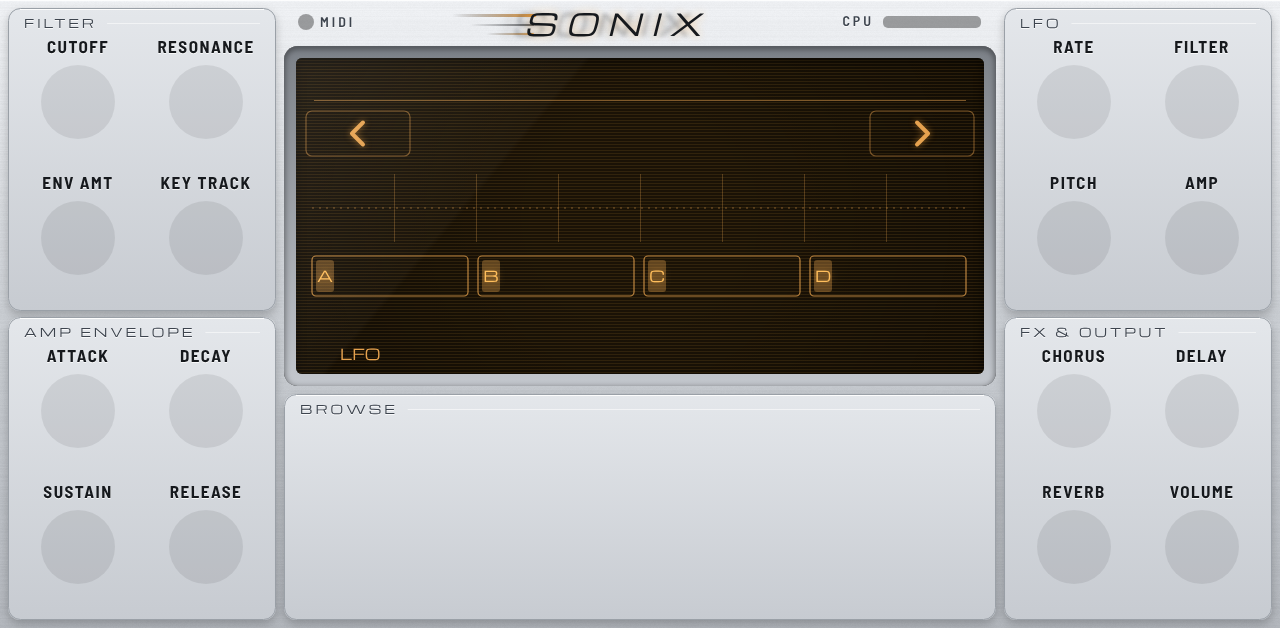
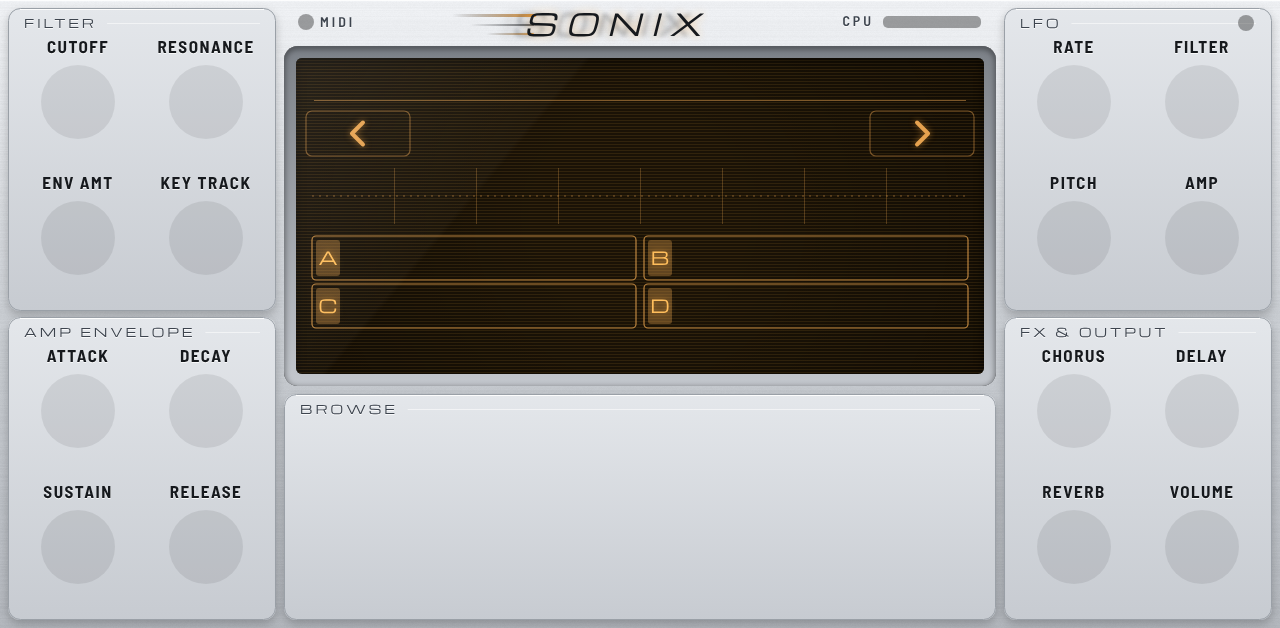
v0.3.2: browsing by data wheel / Q-Link 16 one preset per step, arrows stay in the category, every button tap counts, strong row highlight, list rows in each colorway's LCD colour, 2x2 layer cells with full names
Claude-Session: https://claude.ai/code/session_01PybJ2syxRUbVjbLiUhaYAG

Changed region(s): [[0.2188, 0.3631, 0.7812, 0.5748], [0.9688, 0.0303, 1.0, 0.0605]]

diff --git a/tools/make_skin.py b/tools/make_skin.py
@@ -47,7 +47,7 @@ LAYERS = "abcd"
 BTN_W, BTN_H, BTN_GAP = 108, 47, 8                          # a button picture is BTN_W x (BTN_H + 4): the drop shadow
 KNOB_R = 36
 LABEL_PX, VALUE_PX, BUTTON_PX, TITLE_PX = 17, 21, 16, 12
-LCD_PX = dict(top=22, name=42, cell=20, line=22, lcat=22, lname=27, list=23)
+LCD_PX = dict(top=22, name=42, cell=24, line=22, lcat=22, lname=27, list=26)
 
 # ---- the chassis shared by MAIN and SETTINGS: a 2 x 2 knob panel in each corner, the centre column between
 W, H = 1280, 628
@@ -74,7 +74,7 @@ SETTINGS_SECTIONS = [
     (RX, BOT_Y, "REVERB", [("rev_size", "SIZE"), ("rev_damp", "DAMPING"), ("rev_predelay", "PRE-DELAY"), ("rev_width", "WIDTH")]),
 ]
 # MAIN's Q-Links: the four sections' knobs, but the 16th (VOLUME, which MPC's track has too) browses presets
-MAIN_QLINKS = [k for _, _, _, ks in MAIN_SECTIONS for k, _ in ks][:15] + ["preset"]
+MAIN_QLINKS = [k for _, _, _, ks in MAIN_SECTIONS for k, _ in ks][:15] + ["browse"]
 LAYER_KNOBS = [("level", "LEVEL"), ("pan", "PAN"), ("octave", "OCTAVE"), ("fine", "FINE")]
 SYSTEM_ROWS = [  # (key, label, caption, options)
     ("theme", "THEME", "faceplate colours", ["MIDNIGHT", "PLATINUM", "STUDIO"]),
@@ -93,13 +93,13 @@ LCD_RULE_Y = SY + 42
 LCD_PREV = (SX + 8, SY + 50, BTN_W, BTN_H + 4)
 LCD_NEXT = (SX + SW - 8 - BTN_W, SY + 50, BTN_W, BTN_H + 4)
 LCD_NAME = (SX + 8 + BTN_W + 8, SY + 50, SW - 2 * (8 + BTN_W + 8), BTN_H + 4)
-LCD_WAVE = (SX + 16, SY + 112, SW - 32, 76)                  # two meters side by side (MPC's strip width limit)
+LCD_WAVE = (SX + 16, SY + 106, SW - 32, 64)                  # two meters side by side (MPC's strip width limit)
 WAVE_FRAMES = 33                                             # 0 idle, then 4 levels x 8 phases
-CELL_Y, CELL_H, CELL_W, CELL_GAP = SY + 198, 40, 156, 10
+CELL_Y, CELL_H, CELL_W, CELL_GAP = SY + 178, 44, (SW - 32 - 8) // 2, 8   # the four layers, 2 x 2
 LIST_BOX = (SX + 16, SY + 104, SW - 32, 206)                 # the preset list (2 x 6 rows) in place of the waveform view
 LIST_COLS, LIST_ROWS, LIST_TH, LIST_GAP = 2, 6, 31, 4
-LCD_LINE = (SX + 18, SY + 246, SW - 36, 32)
-LFO_LED = (SX + 30, SY + 296)                                # an LED on the LCD's foot, lit while the LFO runs
+LCD_LINE = (SX + 18, SY + 276, SW - 36, 32)
+LFO_LED = (RX + SIDE_W - 26, SIDE_Y + 15)                    # an LED by the LFO panel's title, lit while the LFO runs
 BROWSE = (CX0, 394, CW, 226)
 GRID_X = CX0 + (CW - (6 * BTN_W + 5 * BTN_GAP)) // 2         # 296
 GRID_Y = BROWSE[1] + 32
@@ -125,6 +125,7 @@ LOGO_X = 640 - 116                                           # the header sits o
 HEADER_LED = (CX0 + 22, 22)                                  # MIDI LED centre
 CPU_BAR = (CX1 - 112, 17, 96, 10)
 
+LCD_BG = {"midnight": "06121f", "platinum": "1a1206", "studio": "a8bc86"}   # each colorway's LCD glass
 LCD_INK = {"midnight": ("9fe4ff", "7cc2e6"), "platinum": ("ffbe5c", "e6a24f"), "studio": ("16200c", "3a4826")}
 KNOB_INK = {"midnight": ("e4e7ec", "c3cad5"), "platinum": ("1b1e22", "343a42"), "studio": ("121417", "24282d")}
 
@@ -146,15 +147,16 @@ def page_main():
            dict(t="readout", key="lcd_ref", box=LCD_REF, size=LCD_PX["top"], ink="dim", align="right", weight="semibold"),
            dict(t="rule", x=SX + 18, y=LCD_RULE_Y, w=SW - 36),
            dict(t="lcdarrow", key="prev", box=LCD_PREV, dir=-1), dict(t="lcdarrow", key="next", box=LCD_NEXT, dir=1),
-           dict(t="presetname", key="preset", box=LCD_NAME, size=LCD_PX["name"]),
+           dict(t="presetname", key="browse", box=LCD_NAME, size=LCD_PX["name"]),
            dict(t="wave", box=LCD_WAVE, view=0)]
     for i, l in enumerate(LAYERS):
-        x = SX + 16 + i * (CELL_W + CELL_GAP)
-        it.append(dict(t="cell", x=x, y=CELL_Y, w=CELL_W, h=CELL_H, letter=l.upper(), view=0))
-        it.append(dict(t="readout", key="lcd_" + l, box=(x + 28, CELL_Y, CELL_W - 32, CELL_H), size=LCD_PX["cell"],
+        x = SX + 16 + (i % 2) * (CELL_W + CELL_GAP)
+        y = CELL_Y + (i // 2) * (CELL_H + 4)
+        it.append(dict(t="cell", x=x, y=y, w=CELL_W, h=CELL_H, letter=l.upper(), view=0))
+        it.append(dict(t="readout", key="lcd_" + l, box=(x + 36, y, CELL_W - 44, CELL_H), size=LCD_PX["cell"],
                        ink="ink", align="left", weight="semibold", view=0))
     it += [dict(t="readout", key="lcd_line", box=LCD_LINE, size=LCD_PX["line"], ink="dim", align="center", weight="semibold", view=0),
-           dict(t="lcdled", key="lfo_led", cx=LFO_LED[0], cy=LFO_LED[1], label="LFO", view=0),
+           dict(t="led", key="lfo_led", cx=LFO_LED[0], cy=LFO_LED[1]),
            dict(t="list", key="row", box=LIST_BOX, view=1),
            dict(t="panel", x=BROWSE[0], y=BROWSE[1], w=BROWSE[2], h=BROWSE[3], title="BROWSE"),
            dict(t="catgrid", x=GRID_X, y=GRID_Y)]
@@ -212,7 +214,7 @@ MOCK = {
                    lfo_rate=(0.35, "3.1 HZ"), lfo_filter=(0.0, "0 %"), lfo_pitch=(0.12, "12 CT"), lfo_amp=(0.0, "0 %"),
                    chorus=(0.3, "30 %"), delay=(0.18, "18 %"), reverb=(0.42, "42 %"), volume=(0.8, "-1.9 DB")),
         text=dict(lcd_top="PIANO  ·  002 / 128  ·  ★", lcd_ref="A4  440 HZ", preset="Velvet Grand",
-                  lcd_a="GRAND PIANO", lcd_b="WARM PAD", lcd_c="STRING ENS", lcd_d="—",
+                  lcd_a="GRAND PIANO", lcd_b="WARM PAD", lcd_c="STRING ENSEMBLE", lcd_d="—",
                   lcd_line="Soft grand over a slow pad and wide strings"),
         on=dict(layer_a=1, layer_b=1, layer_c=1, layer_d=0, fav=1, fav_only=0, lfo_led=1),
         category=0, wave=(2, 3)),
@@ -267,7 +269,7 @@ const T = {
     panel1:'#262a32', panel2:'#1a1d22', panelEdge:'#0b0c0f', bevelHi:'rgba(255,255,255,0.09)', drop:'rgba(0,0,0,0.55)',
     text:'#e4e7ec', muted:'#a3acba', engrave:[0,-1,'rgba(0,0,0,0.75)'], logo:'#eef1f5', logoGlow:'rgba(76,195,255,0.6)',
     led:'#4cc3ff', ledOff:'#1d2732', ledGlow:'rgba(76,195,255,0.7)',
-    bezel1:'#0b0c0f', bezel2:'#22252c', lcd:'#06121f', lcdText:'#9fe4ff', lcdDim:'#7cc2e6', lcdFaint:'rgba(143,220,255,0.10)', lcdGlow:'rgba(120,210,255,0.5)',
+    bezel1:'#0b0c0f', bezel2:'#22252c', lcd:'#06121f', lcdText:'#9fe4ff', lcdDim:'#7cc2e6', rowFill:0.26, lcdFaint:'rgba(143,220,255,0.10)', lcdGlow:'rgba(120,210,255,0.5)',
     knobHi:'#5a616d', knobLo:'#0a0b0d', knobEdge:'#050607', capHi:'#454a54', capLo:'#16181c', ridge:'rgba(255,255,255,0.10)', knobLine:'#eef1f5',
     btnTop:'#3b404a', btnBot:'#22252b', btnOnTop:'#16293c', btnOnBot:'#0e1b28', btnEdge:'#0b0c0f', btnShadow:'#07080a', btnText:'#d9dde4',
     btnEngrave:[0,-1,'rgba(0,0,0,0.75)'], screw:['#70767f','#2a2d33'], well:'rgba(0,0,0,0.16)', name:'MIDNIGHT' },
@@ -275,7 +277,7 @@ const T = {
     panel1:'#e4e7eb', panel2:'#c7cbd1', panelEdge:'#9aa0a7', bevelHi:'rgba(255,255,255,0.9)', drop:'rgba(0,0,0,0.22)',
     text:'#16191d', muted:'#3d444e', engrave:[0,1,'rgba(255,255,255,0.8)'], logo:'#16191d', logoGlow:'rgba(255,154,31,0.4)',
     led:'#ff9a1f', ledOff:'#9f9b93', ledGlow:'rgba(255,154,31,0.7)',
-    bezel1:'#7c8188', bezel2:'#c3c7cd', lcd:'#1a1206', lcdText:'#ffbe5c', lcdDim:'#e6a24f', lcdFaint:'rgba(255,182,72,0.10)', lcdGlow:'rgba(255,170,60,0.5)',
+    bezel1:'#7c8188', bezel2:'#c3c7cd', lcd:'#1a1206', lcdText:'#ffbe5c', lcdDim:'#e6a24f', rowFill:0.26, lcdFaint:'rgba(255,182,72,0.10)', lcdGlow:'rgba(255,170,60,0.5)',
     knobHi:'#7c828c', knobLo:'#121417', knobEdge:'#0c0d0f', capHi:'#686e77', capLo:'#1e2125', ridge:'rgba(255,255,255,0.13)', knobLine:'#f4f4f4',
     btnTop:'#fbfbfc', btnBot:'#cdd1d6', btnOnTop:'#fff5e6', btnOnBot:'#efd2ad', btnEdge:'#939880', btnShadow:'#858a91', btnText:'#1f2328',
     btnEngrave:[0,1,'rgba(255,255,255,0.85)'], screw:['#ffffff','#999da4'], well:'rgba(0,0,0,0.08)', name:'PLATINUM' },
@@ -283,7 +285,7 @@ const T = {
     panel1:'#b8bbbf', panel2:'#9ea1a5', panelEdge:'#7a7d82', bevelHi:'rgba(255,255,255,0.6)', drop:'rgba(0,0,0,0.26)',
     text:'#121417', muted:'#262a2f', engrave:[0,1,'rgba(255,255,255,0.5)'], logo:'#121417', logoGlow:'rgba(255,61,46,0.3)',
     led:'#ff3d2e', ledOff:'#74777b', ledGlow:'rgba(255,61,46,0.65)',
-    bezel1:'#222427', bezel2:'#4b4e52', lcd:'#a8bc86', lcdText:'#16200c', lcdDim:'#3a4826', lcdFaint:'rgba(22,32,12,0.08)', lcdGlow:'rgba(0,0,0,0)',
+    bezel1:'#222427', bezel2:'#4b4e52', lcd:'#a8bc86', lcdText:'#16200c', lcdDim:'#3a4826', rowFill:0.85, rowTint:'#d6e6b8', lcdFaint:'rgba(22,32,12,0.08)', lcdGlow:'rgba(0,0,0,0)',
     knobHi:'#6e747d', knobLo:'#101113', knobEdge:'#0a0b0c', capHi:'#5b6068', capLo:'#1a1c1f', ridge:'rgba(255,255,255,0.11)', knobLine:'#f0f0f0',
     btnTop:'#eceef0', btnBot:'#b7babe', btnOnTop:'#fff1ef', btnOnBot:'#efc6c0', btnEdge:'#73767b', btnShadow:'#62656a', btnText:'#15171a',
     btnEngrave:[0,1,'rgba(255,255,255,0.6)'], screw:['#e7e8ea','#7c7f84'], well:'rgba(0,0,0,0.10)', name:'STUDIO GREY' },
@@ -369,11 +371,16 @@ function listTiles(it) {
     out.push([x + (i % C.LIST_COLS) * (tw + C.LIST_GAP), y + Math.floor(i / C.LIST_COLS) * (C.LIST_TH + C.LIST_GAP), tw, C.LIST_TH]);
   return out;
 }
-function rowLit(t, x, y, w, h) {
-  ctx.save(); rr(x + 1, y + 1, w - 2, h - 2, 4); ctx.fillStyle = t.lcdText; ctx.globalAlpha = 0.14; ctx.fill(); ctx.restore();
-  ctx.save(); ctx.shadowColor = t.lcdGlow; ctx.shadowBlur = 8; rr(x + 1, y + 1, w - 2, h - 2, 4); ctx.strokeStyle = t.lcdText; ctx.lineWidth = 1.6; ctx.stroke(); ctx.restore();
+function rowLit(t, x, y, w, h) {   // the selected preset: a tinted bar, a bright frame and a solid marker on the left
+  ctx.save(); rr(x + 1, y + 1, w - 2, h - 2, 4); ctx.fillStyle = t.rowTint || t.lcdText; ctx.globalAlpha = t.rowFill; ctx.fill(); ctx.restore();
+  ctx.save(); ctx.shadowColor = t.lcdGlow; ctx.shadowBlur = 10; rr(x + 1.5, y + 1.5, w - 3, h - 3, 4); ctx.strokeStyle = t.lcdText; ctx.lineWidth = 2.5; ctx.stroke(); ctx.restore();
+  ctx.save(); rr(x + 3, y + 5, 5, h - 10, 2); ctx.fillStyle = t.lcdText; ctx.fill(); ctx.restore();
 }
-function rowOn(th, w, h) { setup(w, h); rowLit(T[th], 0, 0, w, h); return out(); }
+// an idle list row: the LCD's own glass (cut from the screen behind it), so no host colour shows through
+function rowOff(th, w, h) { const t = T[th]; setup(w, h); ctx.fillStyle = t.lcd; ctx.fillRect(0, 0, w, h);
+  ctx.fillStyle = t.lcdFaint; for (let y = 2; y < h; y += 3) ctx.fillRect(0, y, w, 1);
+  rr(0.5, 0.5, w - 1, h - 1, 4); ctx.strokeStyle = t.lcdDim; ctx.globalAlpha = 0.3; ctx.stroke(); return out(); }
+function rowOn(th, w, h) { const t = T[th]; setup(w, h); ctx.fillStyle = t.lcd; ctx.fillRect(0, 0, w, h); rowLit(t, 0, 0, w, h); return out(); }
 function glare(screen, r) {
   const [sx, sy, sw, sh] = screen;
   ctx.save(); rr(sx, sy, sw, sh, r); ctx.clip();
@@ -432,8 +439,10 @@ function background(th, items) {
       ctx.globalAlpha = 0.5; ctx.setLineDash([2, 5]); ctx.beginPath(); ctx.moveTo(x, y + h / 2); ctx.lineTo(x + w, y + h / 2); ctx.stroke(); ctx.restore();
     } else if (it.t === 'cell') {
       ctx.save(); ctx.strokeStyle = t.lcdDim; ctx.lineWidth = 1.2; ctx.globalAlpha = 0.8; rr(it.x, it.y, it.w, it.h, 4); ctx.stroke();
-      ctx.globalAlpha = 1; rr(it.x + 4, it.y + 4, 18, it.h - 8, 3); ctx.fillStyle = t.lcdDim; ctx.globalAlpha = 0.35; ctx.fill(); ctx.restore();
-      lcdGlyph(t, it.letter, it.x + 13, it.y + it.h / 2 + 6, { size: 15, font: 'Michroma', weight: 400, align: 'center' });
+      ctx.globalAlpha = 1; rr(it.x + 4, it.y + 4, 24, it.h - 8, 3); ctx.fillStyle = t.lcdDim; ctx.globalAlpha = 0.35; ctx.fill(); ctx.restore();
+      lcdGlyph(t, it.letter, it.x + 16, it.y + it.h / 2 + 7, { size: 18, font: 'Michroma', weight: 400, align: 'center' });
+    } else if (it.t === 'led') {
+      ctx.beginPath(); ctx.arc(it.cx, it.cy, 8, 0, 2 * Math.PI); ctx.fillStyle = 'rgba(0,0,0,0.35)'; ctx.fill();
     } else if (it.t === 'lcdled') {
       if (it.label) lcdGlyph(t, it.label, it.cx + 14, it.cy + 6, { size: 15, font: 'Michroma', weight: 400, color: t.lcdDim, glow: null });
     } else if (it.t === 'list') {
@@ -634,7 +643,7 @@ function mockup(th, items, m) {
     res(out());
   });
 }
-window.API = { background, button, blank, gridStrip, pressOverlay, arrowLit, knobStrip, waveStrip, ledStrip, cpuStrip, rowOn, mockup };
+window.API = { background, button, blank, gridStrip, pressOverlay, arrowLit, knobStrip, waveStrip, ledStrip, cpuStrip, rowOn, rowOff, mockup };
 </script></body></html>"""
 
 
@@ -702,6 +711,7 @@ def export_art():
                     save(ev("background", th, items), os.path.join(d, "bg_%s.png" % name.lower()))
             tw = (LIST_BOX[2] - (LIST_COLS - 1) * LIST_GAP) // LIST_COLS
             save(ev("rowOn", th, tw, LIST_TH), os.path.join(d, "row_on.png"))
+            save(ev("rowOff", th, tw, LIST_TH), os.path.join(d, "row_off.png"))
             save(ev("knobStrip", th, 128, KNOB_R), os.path.join(d, "knob.png"))
             save(ev("gridStrip", th, CATS, 6, BTN_W, BTN_H, BTN_GAP, 10), os.path.join(d, "cats.png"))
             save(ev("pressOverlay", th, BTN_W, BTN_H), os.path.join(d, "press.png"))
@@ -785,6 +795,8 @@ def write_layout():
                     readout(it, n, th)
                 elif it["t"] == "lcdled":
                     lcdled(it, n, th)
+                elif it["t"] == "led":
+                    L.append("meter cx=%d cy=%d w=22 h=22 key=%s strip=art/%s/led.png frames=2 when=theme:%d" % (it["cx"], it["cy"] + Y, it["key"], th, n))
                 elif it["t"] == "lcdarrow":
                     x, y, w, h = it["box"]
                     L.append('button cx=%d cy=%d w=%d h=%d label="" key=%s img=art/clear_btn.png img_on=art/%s/arrow_%s.png when=theme:%d' % (
@@ -792,12 +804,12 @@ def write_layout():
                 elif it["t"] == "presetname":
                     # the preset name is a knob on the preset list: touch it, then the data wheel (or a drag) browses
                     x, y, w, h = it["box"]
-                    L.append('knob cx=%d cy=%d r=5 lay=side bw=%d bh=%d vs=%d label="" key=preset ink=%s strip=art/clear_knob.png frames=128 when=theme:%d' % (
+                    L.append('knob cx=%d cy=%d r=5 lay=side bw=%d bh=%d vs=%d label="" key=browse ink=%s strip=art/clear_knob.png frames=128 when=theme:%d' % (
                         x + w // 2 - 12, y + h // 2 + Y, w, h, it["size"], LCD_INK[th][0], n))
                 elif it["t"] == "list":
                     x, y, w, h = it["box"]
-                    L.append('list x=%d y=%d w=%d h=%d key=row cols=%d rows=%d order=cols th=%d gap=%d tsize=%d tcolor=%s tweight=semibold talign=left img=art/clear_row.png img_on=art/%s/row_on.png when=theme:%d' % (
-                        x, y + Y, w, h, LIST_COLS, LIST_ROWS, LIST_TH, LIST_GAP, LCD_PX["list"], LCD_INK[th][0], th, n))
+                    L.append('list x=%d y=%d w=%d h=%d key=row cols=%d rows=%d order=cols th=%d gap=%d tsize=%d tcolor=%s tweight=semibold talign=left tx=16 color=%s img=art/%s/row_off.png img_on=art/%s/row_on.png when=theme:%d' % (
+                        x, y + Y, w, h, LIST_COLS, LIST_ROWS, LIST_TH, LIST_GAP, LCD_PX["list"], LCD_INK[th][0], LCD_BG[th], th, th, n))
                 elif it["t"] in ("toggle", "button"):
                     pic_button(it["t"], it["key"], it["key"], it["x"], it["y"], n, th)
                 elif it["t"] == "knob":

diff --git a/src/engine.c b/src/engine.c
@@ -297,6 +297,7 @@ typedef struct { uint8_t st, d1, d2; } ev_t;
 typedef struct {
     float p[NP];
     float prev_mom[NP];
+    double mom_t[NP];
     voice_t v[MAX_V];
     ev_t ev[MAX_EV]; int nev;
     int pedal;
@@ -393,13 +394,18 @@ static int edited(const inst_t *s) {
     }
     return 0;
 }
-/* prev / next: every preset in order, or only the favourites while FAV LIST is on (and there are some) */
+/* prev / next, the data wheel and Q-Link 16: the next preset in the category (the listed one while the list is open),
+ * wrapping inside it; with FAV LIST on (and favourites in it) only the favourites */
 static void step_preset(inst_t *s, int dir) {
-    int only = s->p[P_FAV_ONLY] > 0.5f && any_fav(s, -1), cur = cur_preset(s);
-    for (int k = 1; k <= NPRESET; k++) {
-        int i = ((cur + dir * k) % NPRESET + NPRESET) % NPRESET;
-        if (!only || fav_get(s, i)) { apply_preset(s, i); return; }
-    }
+    int cur = cur_preset(s);
+    int cat = s->p[P_BROWSER] > 0.5f ? s->view_cat : PRESET_CAT[cur];
+    int only = s->p[P_FAV_ONLY] > 0.5f && any_fav(s, cat);
+    int list[NPRESET], n = 0, at = -1;
+    for (int i = 0; i < NPRESET; i++)
+        if (PRESET_CAT[i] == cat && (!only || fav_get(s, i))) { if (i == cur) at = n; list[n++] = i; }
+    if (!n) return;
+    int k = at < 0 ? (dir > 0 ? 0 : n - 1) : ((at + dir) % n + n) % n;
+    if (list[k] != cur) apply_preset(s, list[k]);
 }
 /* a category button opens the LCD's list of its presets (the sound stays until a row is picked); the lit one again
  * closes the list */
@@ -658,10 +664,13 @@ static void eng_set_param(void *inst, const char *key, const char *val) {
     }
     if (i < 0 || is_computed(i)) return;
     if (PINFO[i].kind == K_MOMENTARY) {
-        int press = x > 0.5f && s->prev_mom[i] <= 0.5f;
+        /* a press is any set to 1: MPC may never send the release back, so no edge detection; a second 1 within 120 ms
+         * is the same press */
+        int press = x > 0.5f && (s->prev_mom[i] <= 0.5f || s->clock - s->mom_t[i] > 0.12);
         s->prev_mom[i] = x;
         s->p[i] = x;
         if (!press) return;
+        s->mom_t[i] = s->clock;
         if (i == P_PREV) step_preset(s, -1);
         else if (i == P_NEXT) step_preset(s, 1);
         else if (i >= P_CAT_PIANO && i < P_CAT_PIANO + NCAT) category_pressed(s, i - P_CAT_PIANO);
@@ -671,12 +680,17 @@ static void eng_set_param(void *inst, const char *key, const char *val) {
     if (x > PINFO[i].hi) x = PINFO[i].hi;
     if (PINFO[i].whole) x = roundf(x);
     if (i == P_PRESET) { if ((int)x != cur_preset(s)) apply_preset(s, (int)x); return; }
+    if (i == P_BROWSE) {                               /* one step per wheel click / Q-Link event, then back to rest */
+        if ((int)x != 500) step_preset(s, x > 500 ? 1 : -1);
+        s->p[P_BROWSE] = 500; s->rev++;
+        return;
+    }
     if (i == P_FAV) { fav_set(s, cur_preset(s), x > 0.5f); s->p[P_FAV] = x > 0.5f; s->rev++; return; }
     s->p[i] = x;
     if (i == P_BROWSER || i == P_THEME) { if (i == P_BROWSER) s->view_cat = PRESET_CAT[cur_preset(s)]; sync_view(s); return; }
     if (i >= P_FAV_0 && i <= P_FAV_9) { s->p[P_FAV] = (float)fav_get(s, cur_preset(s)); s->rev++; return; }
     if (i >= P_LAYER_A && i <= P_SOLO_D) want_banks(s);
-    if (PINFO[i].kind == K_KNOB && i != P_VOLUME) { s->touch = i; s->touch_t = s->clock; s->touch_shown = 1; }
+    if (PINFO[i].kind == K_KNOB && i != P_VOLUME && i != P_BROWSE) { s->touch = i; s->touch_t = s->clock; s->touch_shown = 1; }
     s->rev++;
 }
 
@@ -715,6 +729,7 @@ static int fmt_display(const inst_t *s, int i, char *buf, int n) {
     case F_HZINT: return snprintf(buf, n, "%d Hz", (int)lroundf(x));
     case F_INT: return snprintf(buf, n, "%d", (int)lroundf(x));
     case F_PREDELAY: return snprintf(buf, n, "%d ms", (int)lroundf(clamp01(x) * 100));
+    case F_BROWSE: return snprintf(buf, n, "%s", PRESET_NAME[cur_preset(s)]);   /* the knob shows the preset's name */
     }
     return snprintf(buf, n, "%g", x);
 }
@@ -737,7 +752,8 @@ static int lcd_text(inst_t *s, int i, char *buf, int n) {
     if (i >= P_LCD_A && i <= P_LCD_D) {
         int l = i - P_LCD_A;
         if (!layer_on(s, l)) return snprintf(buf, n, "\xe2\x80\x94");
-        return snprintf(buf, n, "%s", INST_SHORT[layer_inst(s, l)]);
+        upcase(name, INST_NAME[layer_inst(s, l)], sizeof name);
+        return snprintf(buf, n, "%s", name);
     }
     if (i >= P_LCAT_A && i <= P_LCAT_D) {
         int l = i - P_LCAT_A;

diff --git a/src/params.h b/src/params.h
@@ -90,6 +90,7 @@ enum {
     P_ANIM,
     P_MOD_WHEEL,
     P_VEL_CURVE,
+    P_BROWSE,
     P_LOOK,
     P_CATEGORY,
     P_WAVE,
@@ -231,6 +232,7 @@ static const char *const PKEY[NP] = {
     "anim",
     "mod_wheel",
     "vel_curve",
+    "browse",
     "look",
     "category",
     "wave",
@@ -371,6 +373,7 @@ static const char *const PNAME[NP] = {
     "ANIMATION",
     "MOD WHEEL",
     "VELOCITY CURVE",
+    "BROWSE",
     "LOOK",
     "CATEGORY",
     "WAVEFORM",
@@ -421,7 +424,7 @@ static const char *const PNAME[NP] = {
     "FAVOURITES 10",
 };
 enum { K_KNOB, K_OPTION, K_MOMENTARY, K_DISPLAY, K_TEXT };
-enum { F_ATTACK, F_BIPOLAR, F_CENTS, F_CUTOFF, F_HZINT, F_INT, F_LEVEL, F_LFO, F_LOOK, F_NONE, F_OCT, F_OPT, F_PAN, F_PCT, F_PREDELAY, F_SEMI, F_TIME, F_TONE, F_VIB, F_VOL };
+enum { F_ATTACK, F_BIPOLAR, F_BROWSE, F_CENTS, F_CUTOFF, F_HZINT, F_INT, F_LEVEL, F_LFO, F_LOOK, F_NONE, F_OCT, F_OPT, F_PAN, F_PCT, F_PREDELAY, F_SEMI, F_TIME, F_TONE, F_VIB, F_VOL };
 typedef struct { int kind, fmt; float lo, hi, def; int whole, in_preset; } pinfo_t;
 static const pinfo_t PINFO[NP] = {
     { K_KNOB, F_VOL, 0.0f, 1.0f, 0.8f, 0, 0 },  /* volume */
@@ -514,6 +517,7 @@ static const pinfo_t PINFO[NP] = {
     { K_OPTION, F_OPT, 0.0f, 2.0f, 2.0f, 1, 0 },  /* anim */
     { K_OPTION, F_OPT, 0.0f, 2.0f, 0.0f, 1, 0 },  /* mod_wheel */
     { K_OPTION, F_OPT, 0.0f, 2.0f, 1.0f, 1, 0 },  /* vel_curve */
+    { K_KNOB, F_BROWSE, 0.0f, 1000.0f, 500.0f, 1, 0 },  /* browse */
     { K_OPTION, F_LOOK, 0.0f, 5.0f, 0.0f, 1, 0 },  /* look */
     { K_DISPLAY, F_NONE, 0.0f, 11.0f, 0.0f, 0, 0 },  /* category */
     { K_DISPLAY, F_NONE, 0.0f, 32.0f, 0.0f, 0, 0 },  /* wave */

diff --git a/tools/faceplate_test.c b/tools/faceplate_test.c
@@ -84,7 +84,17 @@ int main(int argc, char **argv) {
     CHECK(!strcmp(gets("lcd_name"), "VELVET GRAND") && getf("preset") == 1, "NEXT -> preset 2 (\"%s\")", gets("lcd_name"));
     CHECK(getf("layer_b") == 1 && !strcmp(gets("lcd_b"), "WARM PAD"), "its layer B is the warm pad (\"%s\")", gets("lcd_b"));
     press("prev"); press("prev");
-    CHECK(getf("preset") == NPRESET - 1 && getf("category") == NCAT - 1, "PREV wraps to the last preset (%g, \"%s\")", getf("preset"), gets("lcd_name"));
+    CHECK(!strcmp(gets("lcd_name"), "SALOON UPRIGHT") && getf("category") == 0, "PREV wraps inside PIANO (\"%s\")", gets("lcd_name"));
+    set("browse", "501");
+    CHECK(!strcmp(gets("lcd_name"), "CONCERT GRAND") && getf("browse") == 500, "a data-wheel click forward: the next piano preset, the control back at rest");
+    set("browse", "499"); set("browse", "499");
+    CHECK(!strcmp(gets("lcd_name"), "PAD LAYER GRAND"), "two clicks back, still inside PIANO (\"%s\")", gets("lcd_name"));
+    char bd[64]; E->get_param(S, "browse_display", bd, sizeof bd);
+    CHECK(!strcmp(bd, "Pad Layer Grand"), "the LCD's browse control shows the preset's name (\"%s\")", bd);
+    int p0 = (int)getf("preset");
+    set("next", "1"); run(0.2); set("next", "1");
+    CHECK((int)getf("preset") == (p0 + 2 > 10 ? p0 + 2 - 11 : p0 + 2), "NEXT pressed twice with no release in between steps twice (%d -> %g)", p0, getf("preset"));
+    set("next", "0");
     int before = (int)getf("preset");
     press("cat_strings");
     CHECK(getf("browser") == 1 && getf("look") == 1 && getf("category") == 3 && (int)getf("preset") == before,

diff --git a/tools/sonix_params.py b/tools/sonix_params.py
@@ -82,6 +82,8 @@ def spec():
           option("anim", "Animation", ["Off", "Low", "Smooth"], "Smooth", preset=False),
           option("mod_wheel", "Mod Wheel", ["Vibrato", "Filter", "Off"], "Vibrato", preset=False),
           option("vel_curve", "Velocity Curve", ["Soft", "Normal", "Hard"], "Normal", preset=False)]
+    # the data wheel / Q-Link browser: rests at 500; a move up or down steps one preset in the category
+    P += [knob("browse", "Browse", 500, 0, 1000, fmt="BROWSE", integer=True, preset=False)]
     P += [option("look", "Look", ["Midnight", "Midnight List", "Platinum", "Platinum List", "Studio", "Studio List"],
                  "Midnight", preset=False, fmt="LOOK"),
           display("category", "Category", len(CATEGORIES) - 1), display("wave", "Waveform", 32), display("midi_led", "MIDI LED", 1), display("lfo_led", "LFO LED", 1),
@@ -109,7 +111,7 @@ def to_json(P):
         elif p["kind"] == "option":
             q.update(options=p["options"], default=p["default"])
             if p["key"] == "preset":
-                q["qlink_ticks"] = 2                 # two data-wheel clicks or Q-Link events per preset
+                q["qlink_ticks"] = 2                 # (on screen the LCD's browse control steps presets instead)
         elif p["kind"] == "momentary":
             q["momentary"] = True
             if p["step_of"]:

diff --git a/tools/pack_sonix.py b/tools/pack_sonix.py
@@ -207,7 +207,7 @@ def write_tables():
         f.write(f"#define NINST {len(names)}\n")
         f.write("static const char *INST_FILE[NINST] = {\n" + "".join(f'    "{n}",\n' for n in names) + "};\n")
         f.write("static const char *INST_NAME[NINST] = {\n" + "".join(f'    "{d}",\n' for _, d, _ in ORDER) + "};\n")
-        f.write("static const char *INST_SHORT[NINST] = {\n" + "".join(f'    "{sh}",\n' for _, _, sh in ORDER) + "};\n")
+        f.write("static const char *INST_SHORT[NINST] __attribute__((unused)) = {\n" + "".join(f'    "{sh}",\n' for _, _, sh in ORDER) + "};\n")
         f.write(f"#define NCAT {len(CATEGORIES)}\n")
         f.write("static const char *CAT_NAME[NCAT] = { " + ", ".join(f'"{c}"' for c in CATEGORIES) + " };\n")
         f.write("static const unsigned char INST_CAT[NINST] = { " + ", ".join(str(c) for c in cats) + " };\n")

diff --git a/src/instruments.h b/src/instruments.h
@@ -94,7 +94,7 @@ static const char *INST_NAME[NINST] = {
     "Tubular Bells",
     "FM Bells",
 };
-static const char *INST_SHORT[NINST] = {
+static const char *INST_SHORT[NINST] __attribute__((unused)) = {
     "GRAND PIANO",
     "UPRIGHT",
     "FM E-PIANO",

diff --git a/TESTING.md b/TESTING.md
@@ -14,7 +14,7 @@ v0.3 rebuilds the instruments (45 now, from the same open sources plus a few mor
 downloads, 10-20 minutes). Expected near the end:
 - `exported: VSTPluginMain`
 - `highest glibc: GLIBC_2.x` (2.31 or lower is ideal)
-- `dist/Sonix-0.3.1-mpc-armv7.zip`, about 125 MB (v0.2 was 220 MB), also copied to your Windows Downloads
+- `dist/Sonix-0.3.2-mpc-armv7.zip`, about 125 MB (v0.2 was 220 MB), also copied to your Windows Downloads
 
 If the build fails, send me the last ~30 lines of output.
 
@@ -28,9 +28,10 @@ parameter list changed again, so open a fresh Sonix rather than a project saved 
 | 1 | It loads | Plugin browser → Sonix on a new track | MAIN page, Concert Grand on the LCD, plays at once |
 | 2 | PRESET list | MPC's PRESET button / menu for the track | 128 presets by name; picking one changes the sound and the LCD |
 | 3 | Instant presets | Pick presets while playing pads | each one plays right away, no "Loading" pause (after the first few seconds) |
-| 4 | ◀ ▶ on the LCD | Tap the arrows | previous / next preset, across categories, wraps around |
+| 4 | ◀ ▶ on the LCD | Tap the arrows, several times quickly | previous / next preset inside the current category, wraps around; every tap counts |
 | 5 | Preset list | Tap STRINGS, then a name in the list; tap STRINGS again | the LCD lists the category's presets; a tap loads one (lit); the lit button again closes the list |
-| 5b | Scrolling | Touch the preset name on the LCD, turn the data wheel; turn Q-Link 16 | presets step one by one (two clicks each); the list follows into the next category |
+| 5b | Scrolling | Touch the preset name on the LCD, turn the data wheel; turn Q-Link 16 | one preset per click, inside the category; the selected row is clearly highlighted |
+| 5c | Studio Grey list | SETTINGS → STUDIO, open a list | light green rows, dark text, easy to read |
 | 6 | PRESET list stays open | Open MPC's PRESET list and play pads | the list doesn't close while the waveform moves |
 | 7 | Waveform | Play, soft and hard | the LCD wave moves smoothly while notes sound, taller when louder, flat when silent |
 | 8 | FAV / LIST | ★ FAV on a few presets, then ★ LIST on, then ◀ ▶ | a ★ on the LCD's top line; ◀ ▶ only visit the favourites |
